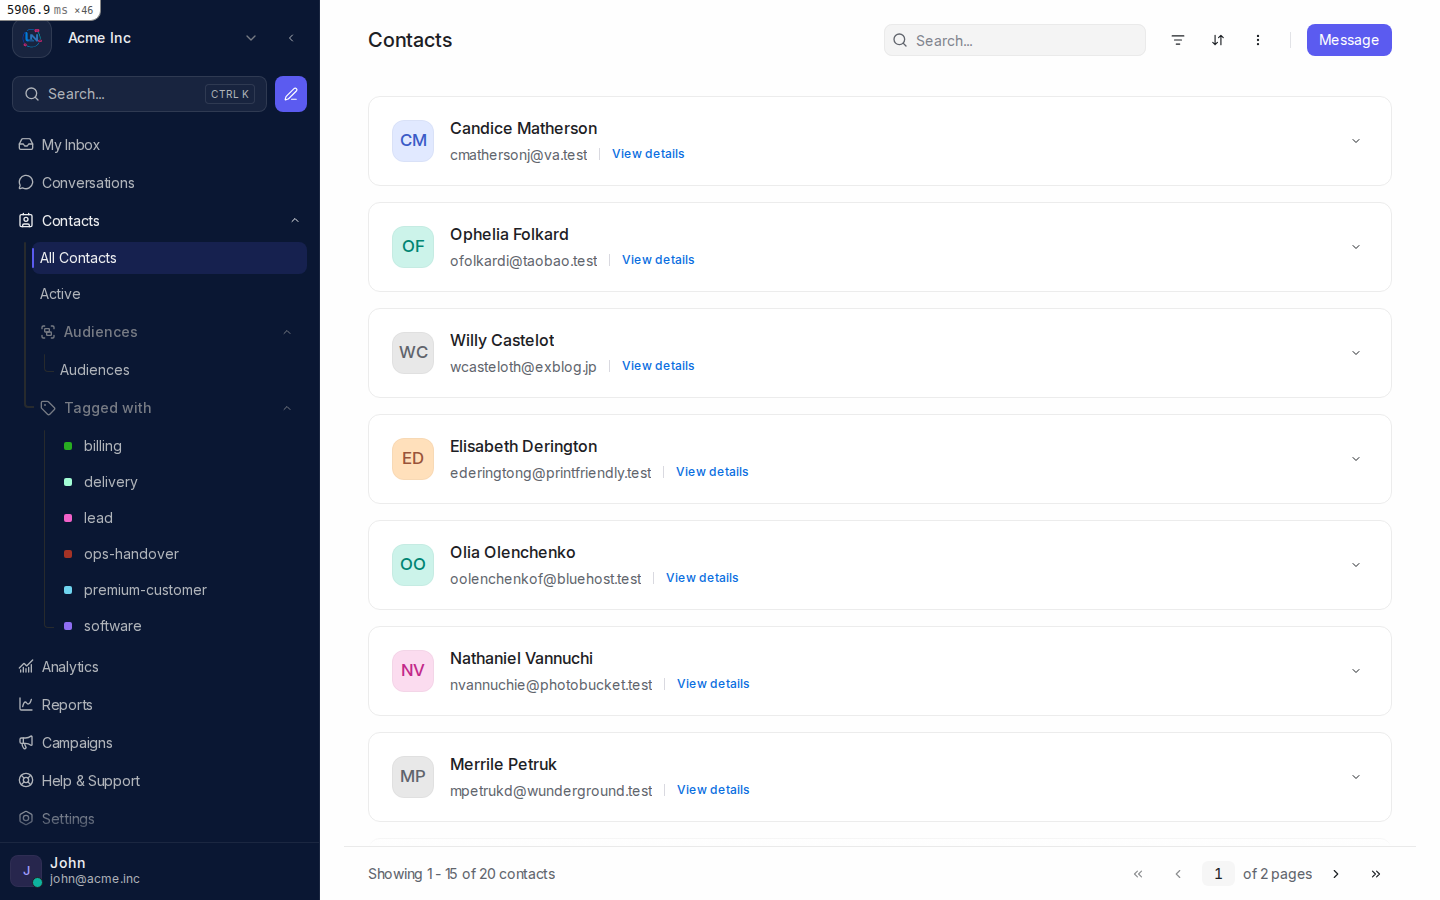
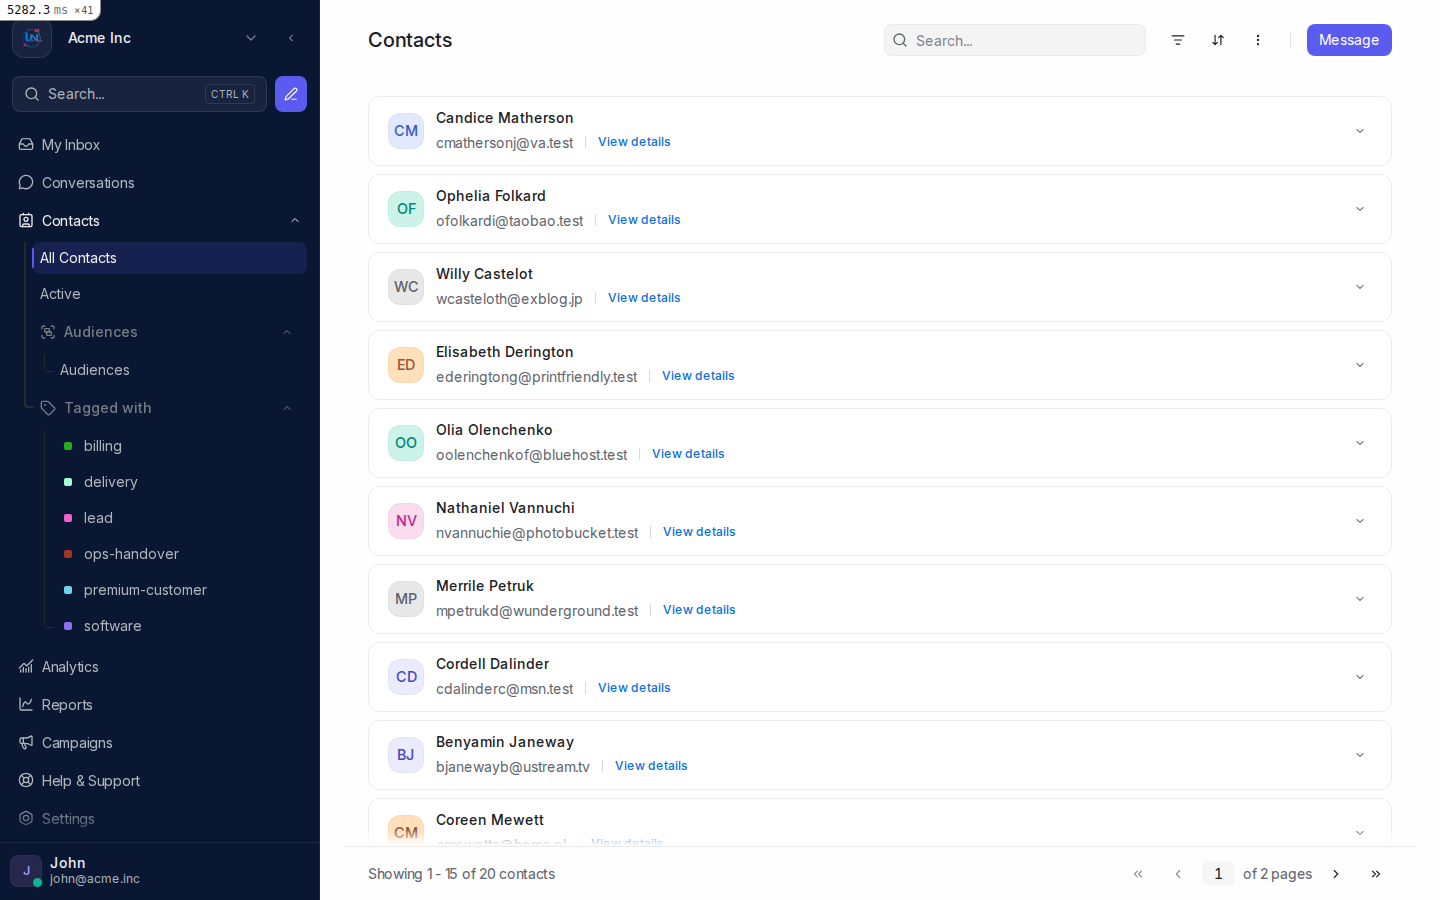
feat(dashboard): put the panel toggle where actions live, and give record lists their density back
The contact-panel toggle floated on its own absolutely positioned pill over the
message timeline, two-thirds of the way down the right edge, unattached to
anything. It now sits in the conversation header beside the call button and the
overflow menu, which is where every other conversation-level action already is.
Same component, same Alt+O shortcut, same tooltip; it gains `aria-pressed`, which
a toggle rendered as a plain icon button needed anyway. `ConversationBox` loses
the slot that existed only to carry it.

`CardLayout` is the shared surface behind twelve record lists -- contacts,
campaigns, search results, Help Center, assignment policies -- and it gave a row
card 40px of vertical padding around 44px of content. Seven contacts filled a
900px screen. A row card is now set tight and a column card keeps the roomier
padding, which is the distinction the single value was eliding; the contacts list
shows ten and a half rows in the same space, with nothing dropped.

The reply/private-note switch was a well-built segmented control that you could
not read: the sliding chip was `n-solid-1` on a near-white composer and both
labels were the same weight, so nothing said which mode you were in. The chip now
carries a ring and takes amber in private-note mode, and the selected label is the
one in full contrast.

Claude-Session: https://claude.ai/code/session_01Qyt7wbs6rdsoHQGX2qYxHT

diff --git a/app/javascript/dashboard/components/widgets/WootWriter/EditorModeToggle.vue b/app/javascript/dashboard/components/widgets/WootWriter/EditorModeToggle.vue
@@ -69,24 +69,35 @@ const translateValue = computed(() => {
 
 <template>
   <button
-    class="flex items-center w-auto h-8 p-1 transition-all border rounded-full bg-n-alpha-2 group relative duration-300 ease-in-out z-0 active:scale-[0.995] active:duration-75"
+    class="flex items-center w-auto h-8 p-1 text-sm transition-all rounded-full bg-n-slate-3 group relative duration-300 ease-in-out z-0 active:scale-[0.995] active:duration-75"
     :disabled="disabled || isReplyRestricted"
     :class="{
       'cursor-not-allowed': disabled || isReplyRestricted,
     }"
     @click="$emit('toggleMode')"
   >
-    <div ref="wootEditorReplyMode" class="flex items-center gap-1 px-2 z-20">
+    <div
+      ref="wootEditorReplyMode"
+      class="flex items-center gap-1 px-2 z-20 transition-colors duration-200"
+      :class="isPrivate ? 'text-n-slate-11' : 'text-n-slate-12 font-medium'"
+    >
       {{ $t('CONVERSATION.REPLYBOX.REPLY') }}
     </div>
-    <div ref="wootEditorPrivateMode" class="flex items-center gap-1 px-2 z-20">
+    <div
+      ref="wootEditorPrivateMode"
+      class="flex items-center gap-1 px-2 z-20 transition-colors duration-200"
+      :class="isPrivate ? 'text-n-amber-12 font-medium' : 'text-n-slate-11'"
+    >
       {{ $t('CONVERSATION.REPLYBOX.PRIVATE_NOTE') }}
     </div>
     <div
-      class="absolute shadow-sm rounded-full h-6 w-[var(--chip-width)] ease-in-out translate-x-[var(--translate-x)] rtl:translate-x-[var(--rtl-translate-x)] bg-n-solid-1"
-      :class="{
-        'transition-all duration-300': !disabled && !isReplyRestricted,
-      }"
+      class="absolute shadow-sm rounded-full h-6 w-[var(--chip-width)] ease-in-out translate-x-[var(--translate-x)] rtl:translate-x-[var(--rtl-translate-x)] ring-1 ring-inset"
+      :class="[
+        isPrivate
+          ? 'bg-n-solid-amber ring-n-amber-12/20'
+          : 'bg-n-background ring-n-weak',
+        { 'transition-all duration-300': !disabled && !isReplyRestricted },
+      ]"
       :style="{
         '--chip-width': width,
         '--translate-x': translateValue,

diff --git a/app/javascript/dashboard/components-next/Conversation/SidepanelSwitch.vue b/app/javascript/dashboard/components-next/Conversation/SidepanelSwitch.vue
@@ -1,6 +1,5 @@
 <script setup>
 import Button from 'dashboard/components-next/button/Button.vue';
-import ButtonGroup from 'dashboard/components-next/buttonGroup/ButtonGroup.vue';
 import { useUISettings } from 'dashboard/composables/useUISettings';
 import { computed } from 'vue';
 import { useKeyboardEvents } from 'dashboard/composables/useKeyboardEvents';
@@ -28,21 +27,18 @@ useKeyboardEvents(keyboardEvents);
 </script>
 
 <template>
-  <ButtonGroup
-    class="flex flex-col justify-center items-center absolute top-36 xl:top-24 ltr:right-2 rtl:left-2 bg-n-solid-2/90 backdrop-blur-lg border border-n-weak/50 rounded-full gap-1.5 p-1.5 shadow-sm transition-shadow duration-200 hover:shadow !z-20"
-  >
-    <Button
-      v-tooltip.top="$t('CONVERSATION.SIDEBAR.CONTACT')"
-      :aria-label="$t('CONVERSATION.SIDEBAR.CONTACT')"
-      ghost
-      slate
-      sm
-      class="!rounded-full transition-all duration-[250ms] ease-out active:!scale-95 active:!brightness-105 active:duration-75"
-      :class="{
-        'bg-n-alpha-2 active:shadow-sm': isContactSidebarOpen,
-      }"
-      icon="i-ph-user-bold"
-      @click="handleConversationSidebarToggle"
-    />
-  </ButtonGroup>
+  <!-- This used to float over the message timeline on its own absolutely positioned pill. It now sits with
+       the call button and the overflow menu, which is where every other conversation-level action lives. -->
+  <Button
+    v-tooltip.top="$t('CONVERSATION.SIDEBAR.CONTACT')"
+    :aria-label="$t('CONVERSATION.SIDEBAR.CONTACT')"
+    :aria-pressed="isContactSidebarOpen"
+    ghost
+    slate
+    sm
+    class="transition-colors duration-150"
+    :class="{ 'bg-n-alpha-2 text-n-slate-12': isContactSidebarOpen }"
+    icon="i-lucide-user-round"
+    @click="handleConversationSidebarToggle"
+  />
 </template>

diff --git a/app/javascript/dashboard/routes/dashboard/conversation/ConversationView.vue b/app/javascript/dashboard/routes/dashboard/conversation/ConversationView.vue
@@ -7,7 +7,6 @@ import ConversationBox from '../../../components/widgets/conversation/Conversati
 import { BUS_EVENTS } from 'shared/constants/busEvents';
 import CmdBarConversationSnooze from 'dashboard/routes/dashboard/commands/CmdBarConversationSnooze.vue';
 import { emitter } from 'shared/helpers/mitt';
-import SidepanelSwitch from 'dashboard/components-next/Conversation/SidepanelSwitch.vue';
 import ConversationSidebar from 'dashboard/components/widgets/conversation/ConversationSidebar.vue';
 
 export default {
@@ -15,7 +14,6 @@ export default {
     ChatList,
     ConversationBox,
     CmdBarConversationSnooze,
-    SidepanelSwitch,
     ConversationSidebar,
   },
   beforeRouteLeave(to, from, next) {
@@ -181,9 +179,7 @@ export default {
       class="relative z-10 flex-1 min-w-0 overflow-hidden border-0 md:border md:border-n-weak md:rounded-overlay lg:rounded-2xl md:shadow-raised transition-[border-color,box-shadow] duration-200 md:hover:border-n-brand/30 md:hover:shadow-overlay motion-safe:animate-fade-in-up bg-n-background"
       :inbox-id="inboxId"
       :is-on-expanded-layout="isOnExpandedLayout"
-    >
-      <SidepanelSwitch v-if="currentChat.id" />
-    </ConversationBox>
+    />
 
     <!-- The slide used a physical `translateX`, so in Arabic the panel entered from the wrong edge. -->
     <Transition

diff --git a/app/javascript/dashboard/components-next/Contacts/ContactsCard/ContactsCard.vue b/app/javascript/dashboard/components-next/Contacts/ContactsCard/ContactsCard.vue
@@ -117,7 +117,7 @@ const handleAvatarHover = isHovered => {
         'outline-n-weak !bg-n-slate-3 dark:!bg-n-solid-3': isSelected,
       }"
     >
-      <div class="flex items-center justify-start flex-1 gap-4">
+      <div class="flex items-center justify-start flex-1 gap-3 min-w-0">
         <div
           class="relative"
           @mouseenter="handleAvatarHover(true)"
@@ -126,7 +126,7 @@ const handleAvatarHover = isHovered => {
           <Avatar
             :name="name"
             :src="thumbnail"
-            :size="42"
+            :size="36"
             :status="availabilityStatus"
             hide-offline-status
           >
@@ -144,9 +144,9 @@ const handleAvatarHover = isHovered => {
             </template>
           </Avatar>
         </div>
-        <div class="flex flex-col gap-0.5 flex-1">
+        <div class="flex flex-col gap-0.5 flex-1 min-w-0">
           <div class="flex flex-wrap items-center gap-x-4 gap-y-1">
-            <span class="text-base font-medium truncate text-n-slate-12">
+            <span class="text-sm font-medium truncate text-n-slate-12">
               {{ name }}
             </span>
             <span class="inline-flex items-center gap-1">

diff --git a/app/javascript/dashboard/components-next/CardLayout.vue b/app/javascript/dashboard/components-next/CardLayout.vue
@@ -21,11 +21,16 @@ const handleClick = () => {
   <div
     class="flex flex-col w-full outline-1 outline outline-n-container -outline-offset-1 group/cardLayout rounded-xl bg-n-solid-2"
   >
+    <!-- A row card holds one record on one or two lines, so it is set tight; a column card holds a block of
+         content and keeps the roomier padding. The old single value gave a two-line contact 40px of vertical
+         padding around 44px of content, which is why seven contacts filled a 900px screen. -->
     <div
-      class="flex w-full gap-3 py-5"
+      class="flex w-full gap-3"
       :class="[
-        layout === 'col' ? 'flex-col' : 'flex-row justify-between items-center',
-        selectable ? 'px-10 py-6' : 'px-6',
+        layout === 'col'
+          ? 'flex-col py-5'
+          : 'flex-row justify-between items-center py-3',
+        selectable ? 'px-8 py-5' : 'px-5',
       ]"
       @click="handleClick"
     >

diff --git a/app/javascript/dashboard/routes/dashboard/inbox/InboxView.vue b/app/javascript/dashboard/routes/dashboard/inbox/InboxView.vue
@@ -7,7 +7,6 @@ import { useUISettings } from 'dashboard/composables/useUISettings';
 import { BUS_EVENTS } from 'shared/constants/busEvents';
 import { INBOX_EVENTS } from 'dashboard/helper/AnalyticsHelper/events';
 import { emitter } from 'shared/helpers/mitt';
-import SidepanelSwitch from 'dashboard/components-next/Conversation/SidepanelSwitch.vue';
 
 import InboxItemHeader from './components/InboxItemHeader.vue';
 import ConversationBox from 'dashboard/components/widgets/conversation/ConversationBox.vue';
@@ -207,9 +206,7 @@ onMounted(async () => {
           is-inbox-view
           :inbox-id="inboxId"
           :is-on-expanded-layout="false"
-        >
-          <SidepanelSwitch v-if="currentChat.id" />
-        </ConversationBox>
+        />
         <ConversationSidebar
           v-if="isContactPanelOpen"
           :current-chat="currentChat"

diff --git a/app/javascript/dashboard/components/widgets/conversation/ConversationHeader.vue b/app/javascript/dashboard/components/widgets/conversation/ConversationHeader.vue
@@ -6,6 +6,7 @@ import { useElementSize } from '@vueuse/core';
 import BackButton from '../BackButton.vue';
 import InboxName from '../InboxName.vue';
 import MoreActions from './MoreActions.vue';
+import SidepanelSwitch from 'dashboard/components-next/Conversation/SidepanelSwitch.vue';
 import Avatar from 'next/avatar/Avatar.vue';
 import SLACardLabel from './components/SLACardLabel.vue';
 import ConversationCallButton from './ConversationCallButton.vue';
@@ -175,6 +176,7 @@ const copyConversationId = async () => {
         class="hidden md:flex"
       />
       <ConversationCallButton :inbox="inbox" :chat="currentChat" />
+      <SidepanelSwitch />
       <MoreActions :conversation-id="currentChat.id" />
     </div>
   </div>

diff --git a/app/javascript/dashboard/components-next/Contacts/Pages/ContactsList.vue b/app/javascript/dashboard/components-next/Contacts/Pages/ContactsList.vue
@@ -63,7 +63,7 @@ const handleAvatarHover = (id, isHovered) => {
 </script>
 
 <template>
-  <div class="flex flex-col gap-4">
+  <div class="flex flex-col gap-2">
     <div v-for="contact in contacts" :key="contact.id" class="relative">
       <ContactsCard
         :id="contact.id"

diff --git a/app/javascript/dashboard/components/widgets/conversation/ConversationBox.vue b/app/javascript/dashboard/components/widgets/conversation/ConversationBox.vue
@@ -125,7 +125,6 @@ export default {
         v-if="!currentChat.id && !isInboxView"
         :is-on-expanded-layout="isOnExpandedLayout"
       />
-      <slot />
     </div>
     <DashboardAppFrame
       v-for="(dashboardApp, index) in dashboardApps"
